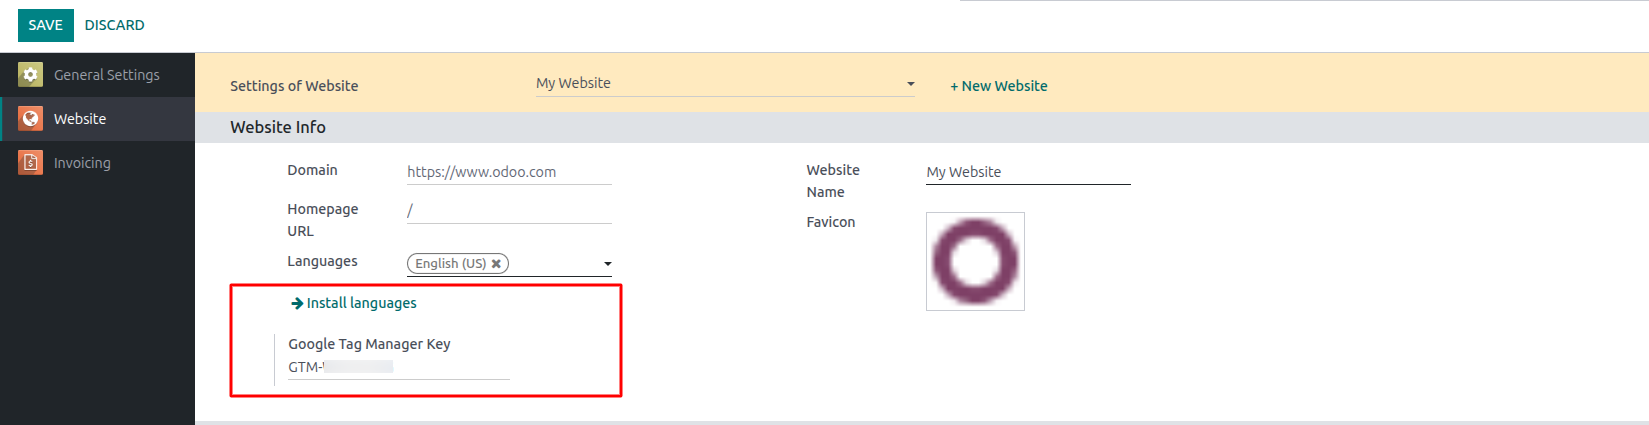
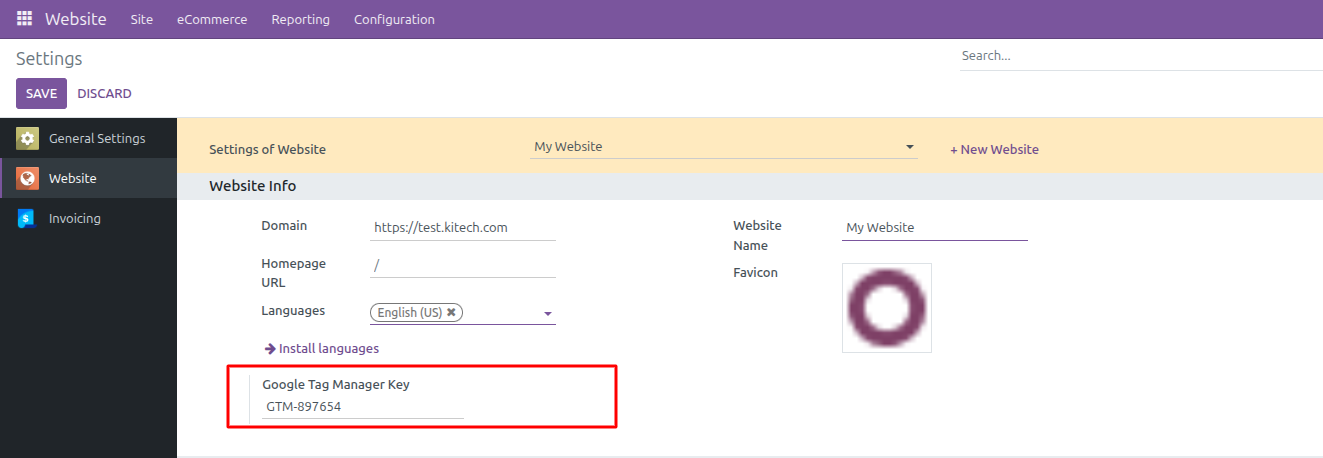
[UP] Upgrade module & index.html

diff --git a/ki_website_google_tag_manager/static/description/index.html b/ki_website_google_tag_manager/static/description/index.html
@@ -156,6 +156,11 @@
             <li>Use the GTM <b>Preview</b> mode or a browser extension such as <b>Tag Assistant</b> to see that the container loads.</li>
             <li>Place a test order in the online shop and verify that a <code>purchase</code> event is received in GTM with order and item details.</li>
           </ul>
+          <div class="text-center my-4 mx-md-5">
+            <img src="gtm-purchase.png"
+                 class="w-100 img-fluid rounded shadow-sm border"
+                 alt="Example of purchase event data sent from Odoo website">
+          </div>
         </div>
       </div>
     </div>
@@ -180,7 +185,7 @@
         </p>
         <div class="mt-4">
           <h4 style="font-size:1rem; font-weight:600; color:#6B7280; margin-bottom:4px;">Phone</h4>
-          <p style="margin:0; color:#111827;">+91‑9974768675</p>
+          <p style="margin:0; color:#111827;">+91 99747 68675</p>
         </div>
         <div class="mt-3">
           <h4 style="font-size:1rem; font-weight:600; color:#6B7280; margin-bottom:4px;">Email</h4>
